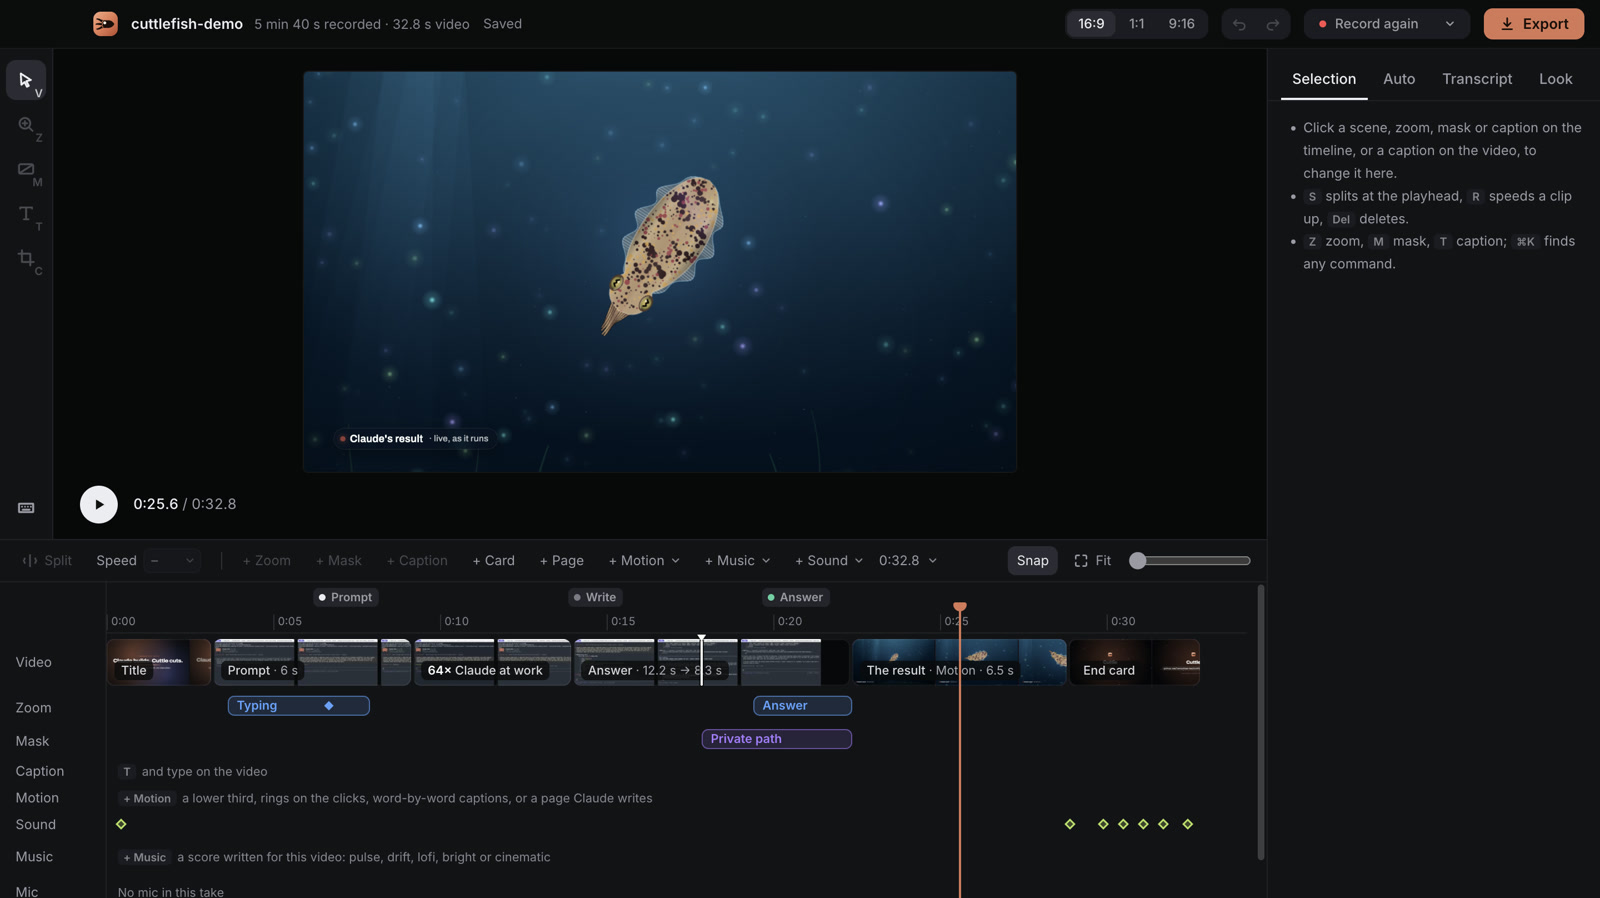
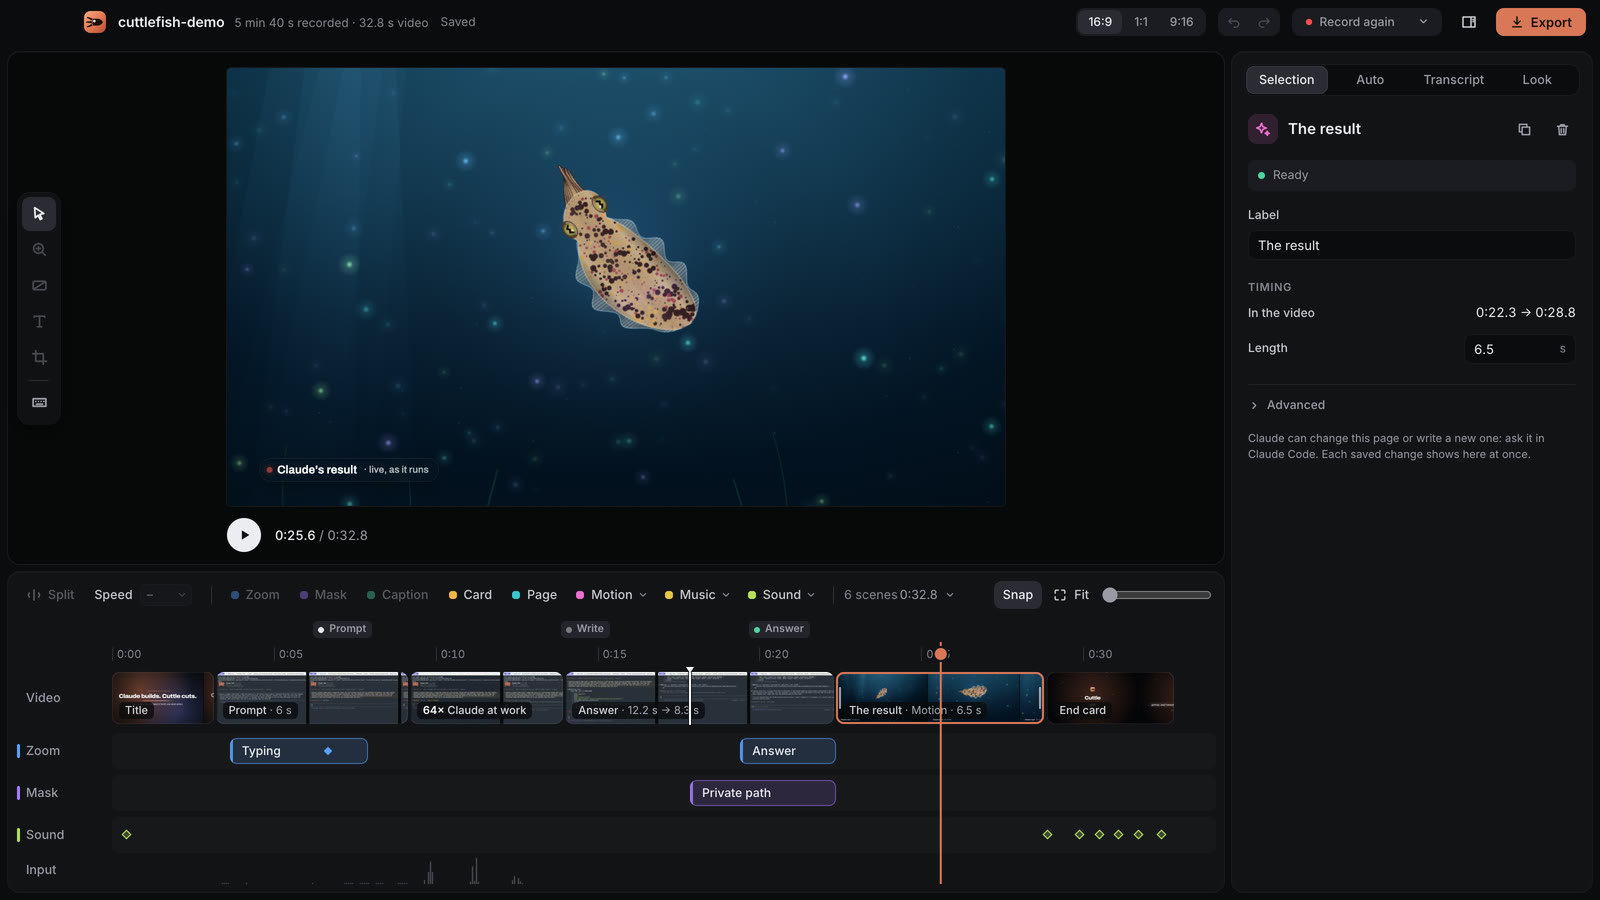
README: screenshots of the redesigned app, and motion videos written in code
- The editor, the Look tab, a motion scene, the command menu, the export and
  the settings, captured again from the cuttlefish demo at twice the pixels.
- A section on motion videos made only of code: what a scene page can draw,
  the commands from an empty folder to an MP4 (run as written: a 16-second
  9:16 video, its frames in docs/media/motion-video.jpg), a page of a few
  lines, the page's clock, brand, sounds and params, and Claude writing them.
  The intro points to it; the CLI's examples add motion and music.
- The command menu: a command's name keeps its room, the reason it cannot
  run gives way (with the whole reason in its tooltip).

diff --git a/apps/desktop/src/renderer/editor/editor.css b/apps/desktop/src/renderer/editor/editor.css
@@ -2150,13 +2150,20 @@ button.chip-status:hover {
   color: var(--faint);
 }
 .command-name {
+  flex: 0 0 auto;
+  max-width: 72%;
   min-width: 0;
   overflow: hidden;
   text-overflow: ellipsis;
   white-space: nowrap;
 }
+/* why a command cannot run: it gives way before the command's name does (the whole reason in its tooltip) */
 .command em {
-  flex: none;
+  flex: 0 100 auto;
+  min-width: 0;
+  overflow: hidden;
+  text-overflow: ellipsis;
+  white-space: nowrap;
   color: var(--muted);
   font-size: var(--size-xs);
   font-style: normal;

diff --git a/apps/desktop/src/renderer/editor/CommandMenu.tsx b/apps/desktop/src/renderer/editor/CommandMenu.tsx
@@ -140,7 +140,7 @@ function Menu() {
                     {command.name}
                     {command.detail && <span className="command-detail">{command.detail}</span>}
                   </span>
-                  {blocked ? <em>{blocked}</em> : command.keys && <kbd>{shortcut(command.keys)}</kbd>}
+                  {blocked ? <em title={blocked}>{blocked}</em> : command.keys && <kbd>{shortcut(command.keys)}</kbd>}
                 </div>
               </div>
             );

diff --git a/README.md b/README.md
@@ -6,7 +6,7 @@
 
 <p align="center">
   <b>Record your screen, or Claude Code at work. Cuttle cuts the waiting, zooms on what matters, masks your secrets and frames it into a demo you can post.</b><br />
-  On your computer, for macOS and Windows. A desktop app for people, a CLI and a skill for Claude.
+  On your computer, for macOS and Windows. A desktop app for people, a CLI and a skill for Claude, and videos written entirely in code.
 </p>
 
 <p align="center">
@@ -30,6 +30,10 @@ on what you type, hides API keys, email addresses and notifications, and puts th
 designed background with your webcam, subtitles and music. Then it exports an MP4 for X, YouTube,
 LinkedIn or Reels. You can change every edit afterwards, in the app or in one plain file
 (`cuttle.json`) that Claude Code edits as well.
+
+Or skip the recording altogether: every scene can be a web page you (or Claude) write, and Cuttle
+renders it frame by frame into the video, with music composed in code for it. The promo above was
+made that way: nine pages and a score, no camera, no editor. See [Motion videos, written in code](#motion-videos-written-in-code).
 
 ## What it does
 
@@ -70,11 +74,12 @@ LinkedIn or Reels. You can change every edit afterwards, in the app or in one pl
 
 ## The editor
 
-<p align="center"><img src="docs/media/app-editor.jpg" alt="Cuttle's editor with a Claude Code take: the framed video, the timeline with the prompt, 64× Claude at work, the answer, the result and the end card, zooms and a mask" /></p>
+<p align="center"><img src="docs/media/app-editor.jpg" alt="Cuttle's editor with a Claude Code take: the framed video, the timeline with the prompt, 64× Claude at work, the answer, the result and the end card, zooms and a mask, and the selected clip's speed, timing and picture in the inspector" /></p>
 
 Everything Cuttle did on its own is a normal edit you can change: drag a clip, trim it, set its
 speed, move a zoom, redraw a mask, switch a kind of edit off in the Auto tab. The look is a tab of
-its own, and the video you see is exactly what the export renders.
+its own, and the video you see is exactly what the export renders. Drag the inspector's edge or the
+timeline's to give the video the room you want, or hide the inspector with ⌘I (Ctrl+I).
 
 <table>
   <tr>
@@ -102,6 +107,74 @@ its own, and the video you see is exactly what the export renders.
     <td align="center"><sub>The prompter and the recording bar, never in the video</sub></td>
   </tr>
 </table>
+
+## Motion videos, written in code
+
+A Cuttle video does not need a recording: a promo, a launch reel, an explainer or a social clip can
+be made only of motion scenes. A scene is a web page: kinetic type, a chart that
+builds, a code editor that types itself, a laptop in 3D, particles, an After Effects animation
+(Lottie), anything HTML, CSS, canvas, SVG, WebGL or Three.js can draw. Cuttle renders the page frame
+by frame on the video's own clock, so a render is the same every time, and one page serves 16:9,
+1:1 and 9:16. The music is a page too: it composes the score in WebAudio for this
+video, from its scenes and cuts, and nothing is licensed or downloaded.
+
+A whole motion video from the command line, from an empty folder to an MP4 (this one renders in
+seconds):
+
+```bash
+cuttle init launch && cd launch
+cuttle motion templates                      # title, end-card, code-typing, device-3d, fold, lower-third, click-callouts, kinetic-captions
+cuttle motion new title                      # copies the page into motion/title/ and adds it as a scene
+cuttle motion new code-typing                # a file typing itself, with syntax colours and key clicks
+cuttle motion new end-card                   # your logo, a line, the URL typing itself
+cuttle music new pulse                       # a score for this video (pulse, drift, lofi, bright, cinematic)
+cuttle motion check motion/title/index.html  # its frames, a contact sheet, what the page threw
+cuttle music check                           # the music alone: a WAV, its levels, the hits on the cuts
+cuttle render --format 9:16                  # out/9x16.mp4; also 16:9 and 1:1
+```
+
+<p align="center"><img src="docs/media/motion-video.jpg" width="720" alt="Four frames of a 9:16 motion video made only from code: a kinetic title, a code editor typing, a page saying Ship it., an end card" /><br />
+<sub>Four frames of the 16-second 9:16 video these commands make, with the page below as its third scene</sub></p>
+
+The templates are starting points; a page of your own is a few lines. Everything follows the
+video's time, from 0 at the scene's start, so a page that draws from `t` is right on every frame:
+
+```html
+<!-- motion/hello/index.html, added to cuttle.json as
+     { "type": "motion", "id": "s9", "src": "motion/hello/index.html", "duration": 3 } -->
+<style>
+  body { margin: 0; height: 100vh; display: grid; place-items: center; font: 700 14vmin system-ui; color: white; }
+</style>
+<h1 id="title">Ship it.</h1>
+<script type="module">
+  import { at, ease } from 'cuttle';
+  const title = document.getElementById('title');
+  cuttle.onFrame((t) => {
+    const shown = at(t, 0.2, 0.8, ease.outExpo);
+    title.style.opacity = shown;
+    title.style.transform = `translateY(${(1 - shown) * 60}px)`;
+  });
+</script>
+```
+
+- **The page's world:** `performance.now`, timers, `requestAnimationFrame`, CSS animations and
+  `Math.random` (seeded) all follow the frame being drawn. `import … from 'cuttle'` gives easing,
+  keyframes, springs, staggering, text splitting, typing with a rhythm and syntax colours, as
+  functions of time; Three.js and Lottie come with the kit, offline.
+- **Your brand everywhere:** pages read the project's theme (name, URL, logo, colours, heading font)
+  as CSS variables, so one brand kit (`cuttle brand`) restyles every scene.
+- **Sounds and params:** a page asks Cuttle for sounds (a whoosh, a pop, key clicks) at its moments,
+  and declares params (a title, a colour, a side) that the editor shows as fields.
+- **With a recording too:** motion pages go between clips (an intro, a chapter card, an end card),
+  over them (a lower third, a ring on every click, captions word by word) and between scenes as
+  transitions (a page fold, a wipe). A page can draw the take itself, frame by frame (`cuttle.take`).
+- **Claude writes them:** with the skill installed, ask Claude Code for *"a 20-second launch video of
+  this app"*. It writes the pages and the score, checks them frame by frame (`motion check`, `music
+  check`), and renders. Open the project in the Cuttle app and every page Claude saves plays there
+  at once.
+
+The skill's [motion guide](skill/cuttle/motion.md) and [music guide](skill/cuttle/music.md) describe
+the whole page API.
 
 ## Get started
 
@@ -295,6 +368,8 @@ cuttle suggest                       # scenes: quiet start and end trimmed, idle
 cuttle preview                       # 12 stills and a contact sheet in preview/
 cuttle frame 42.5 --grid             # a source frame with a numbered pixel grid, for masks and zooms
 cuttle capture-page https://example.com --scroll --add
+cuttle motion new title --first      # a motion page as the intro (motion templates lists them)
+cuttle music new lofi                # music composed for the video, fitted to its scenes and cuts
 cuttle render --format 9:16          # out/9x16.mp4, with the script's steps as its chapters
 cuttle chapters                      # those chapters as lines for a YouTube description
 cuttle recover takes/2               # after a crash
